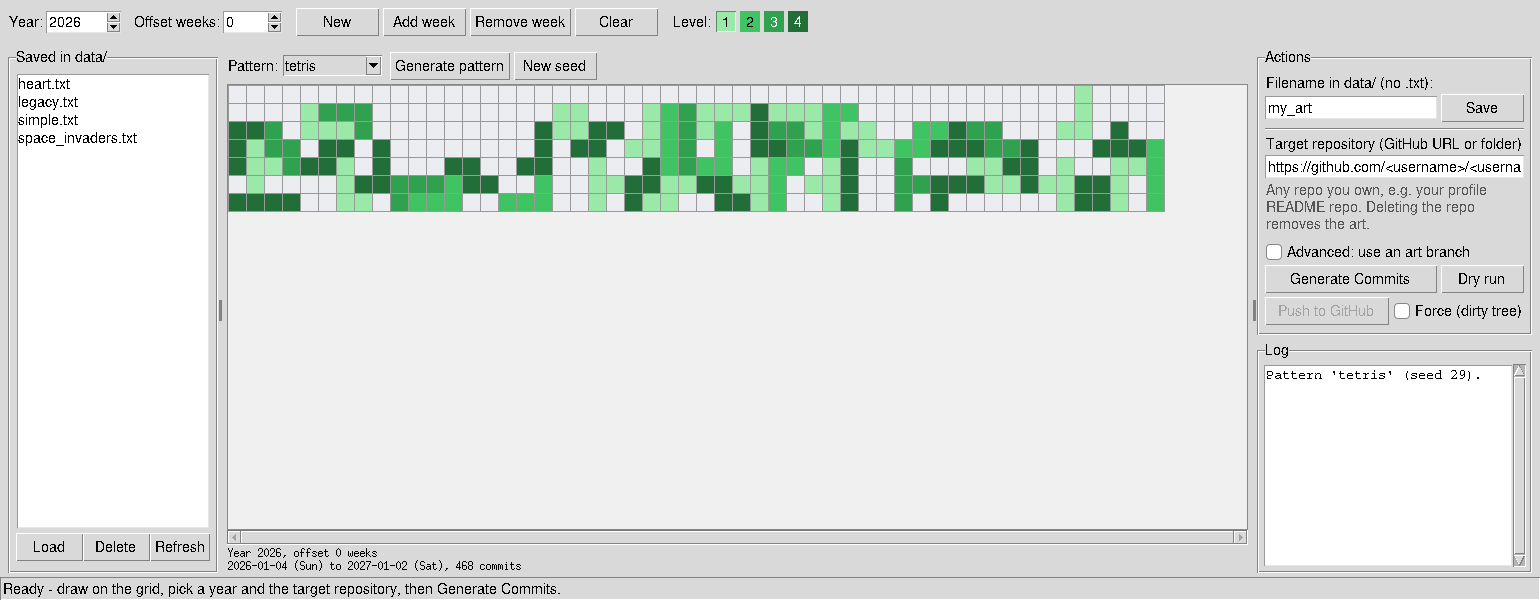
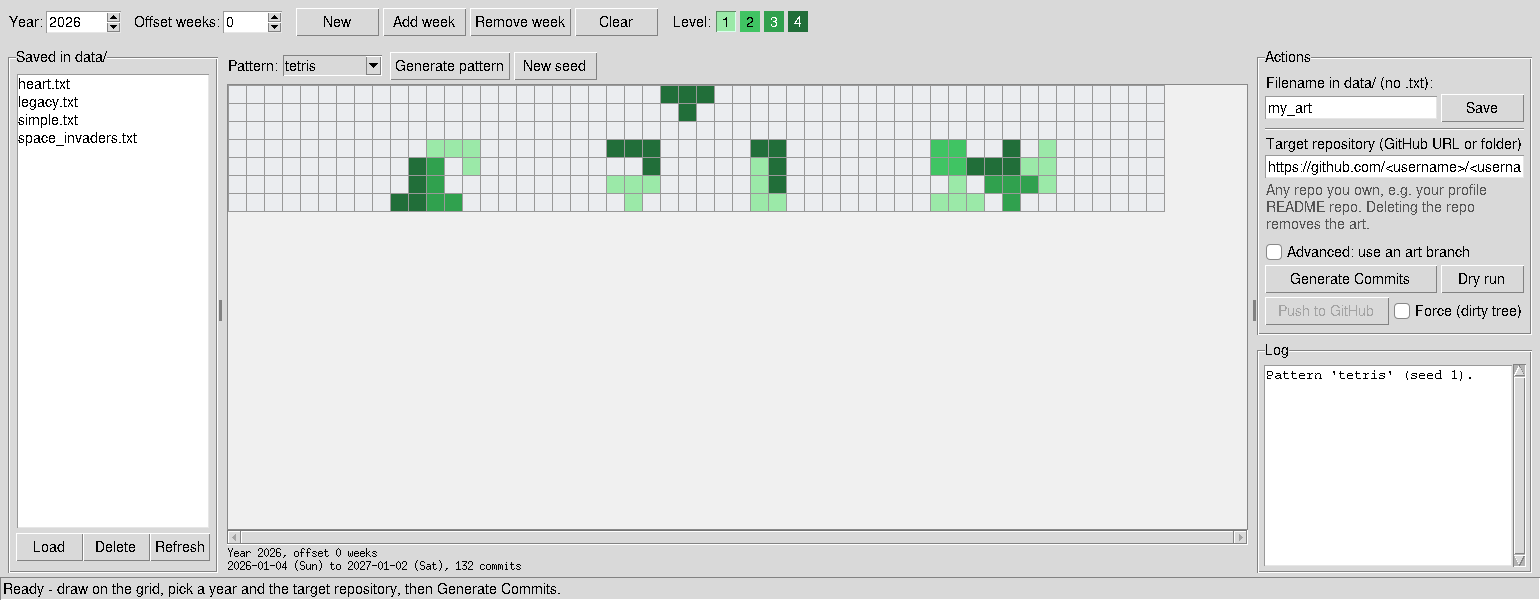
Thin the Tetris pattern into sparse, readable piles
Default density (PATTERN_TETRIS_DENSITY) fills about a third of the
columns, in short clusters 1-4 rows high with wide gaps between them,
so each tetromino stays easy to recognise. A higher density packs more
columns. The README screenshot uses seed 1.

Changed region(s): [[0.1247, 0.12, 0.7792, 0.36]]

diff --git a/src/github_pixel_artworks/patterns.py b/src/github_pixel_artworks/patterns.py
@@ -22,8 +22,12 @@ from .config import (
     PATTERN_OVERFLOWS,
     PATTERN_RANDOM,
     PATTERN_TETRIS,
+    PATTERN_TETRIS_CLUSTER_MAX,
+    PATTERN_TETRIS_CLUSTER_MIN,
+    PATTERN_TETRIS_DENSITY,
     PATTERN_TETRIS_MAX_HEIGHT,
     PATTERN_TETRIS_MIN_HEIGHT,
+    PATTERN_TETRIS_TYPICAL_HEIGHT,
     PATTERN_TEXT,
     PATTERN_TEXT_ALIGN_CENTER,
     PATTERN_TEXT_ALIGN_LEFT,
@@ -44,7 +48,7 @@ def generate(
     seed: int | None = None,
     text: str = "",
     align: str = PATTERN_TEXT_ALIGN_CENTER,
-    density: float = PATTERN_DEFAULT_DENSITY,
+    density: float | None = None,
     overflow: str = PATTERN_OVERFLOW_ERROR,
 ) -> Grid:
     """Return a ``DAYS_PER_WEEK`` by ``width`` grid for the named pattern.
@@ -53,6 +57,9 @@ def generate(
     pattern; ``align`` is ``center`` or ``left`` within ``width``. If the text
     is wider than ``width`` (or ``MAX_WEEKS`` when width is omitted),
     ``overflow`` is ``error`` or ``truncate`` (whole characters only).
+    ``density`` is the fill chance for random and mirror (default
+    ``PATTERN_DEFAULT_DENSITY``) and, for tetris, the share of columns in
+    a stack cluster (default ``PATTERN_TETRIS_DENSITY``, which is sparse).
 
     Raises:
         ValueError: for an unknown name, a bad width, density, align or
@@ -61,6 +68,8 @@ def generate(
     key = name.strip().lower()
     if key not in GENERATORS:
         raise ValueError(f"Unknown pattern {name!r}. Choose one of: {', '.join(PATTERN_NAMES)}.")
+    if density is None:
+        density = PATTERN_TETRIS_DENSITY if key == PATTERN_TETRIS else PATTERN_DEFAULT_DENSITY
     if not 0 <= density <= 1:
         raise ValueError(f"density must be between 0 and 1 (got {density}).")
     if overflow not in PATTERN_OVERFLOWS:
@@ -142,18 +151,19 @@ def _wave(*, width: int | None, rng: random.Random, **_extra: object) -> Grid:
     return grid
 
 
-def _tetris(*, width: int | None, rng: random.Random, **_extra: object) -> Grid:
-    """Stack tetrominoes into a mid-game board with a ragged skyline.
+def _tetris(*, width: int | None, rng: random.Random, density: float, **_extra: object) -> Grid:
+    """Stack a few tetrominoes into sparse piles with gaps between them.
 
     Pieces fall toward Saturday (the last row). Each piece is one shade,
-    chosen so it differs from any orthogonally adjacent piece. The stack
-    stays between ``PATTERN_TETRIS_MIN_HEIGHT`` and
-    ``PATTERN_TETRIS_MAX_HEIGHT`` rows so the top is uneven, not a full
-    board. A falling piece is added above the stack when there is room.
+    chosen so it differs from any orthogonally adjacent piece. ``density``
+    is the share of columns that belong to a pile; the default is sparse,
+    with stacks mostly ``PATTERN_TETRIS_MIN_HEIGHT`` to
+    ``PATTERN_TETRIS_TYPICAL_HEIGHT`` rows tall. A falling piece is added
+    above the board when there is room.
     """
     columns = _require_width(width if width is not None else PATTERN_DEFAULT_WIDTH)
     grid = _blank(columns)
-    targets = _skyline(columns, rng)
+    targets = _skyline(columns, rng, density)
     for _ in range(columns * DAYS_PER_WEEK):  # more than enough; we stop when nothing fits
         if not _drop_piece(grid, rng, max_heights=targets):
             break
@@ -161,21 +171,75 @@ def _tetris(*, width: int | None, rng: random.Random, **_extra: object) -> Grid:
     return grid
 
 
-def _skyline(columns: int, rng: random.Random) -> list[int]:
-    """Target stack height for each column, ragged between the allowed bounds."""
-    low, high = PATTERN_TETRIS_MIN_HEIGHT, PATTERN_TETRIS_MAX_HEIGHT
-    height = rng.randint(low, high)
-    targets: list[int] = []
-    for _ in range(columns):
-        height = max(low, min(high, height + rng.choice((-2, -1, -1, 0, 0, 0, 1, 1, 2))))
-        targets.append(height)
-    if columns >= 3 and max(targets) - min(targets) < 2:
-        index = rng.randrange(columns)
-        if targets[index] <= (low + high) // 2:
-            targets[index] = min(high, targets[index] + 2)
-        else:
-            targets[index] = max(low, targets[index] - 2)
+def _skyline(columns: int, rng: random.Random, density: float) -> list[int]:
+    """Target heights: short clusters separated by empty stretches."""
+    targets = [0] * columns
+    if density <= 0:
+        return targets
+    occupied = max(1, min(columns, round(columns * density)))
+    cluster_count = _cluster_count(occupied)
+    clusters = _split_total(occupied, cluster_count, rng, min_size=1)
+    gaps = _split_total(columns - occupied, cluster_count + 1, rng, min_size=0)
+    column = 0
+    for index, size in enumerate(clusters):
+        column += gaps[index]
+        targets[column : column + size] = _cluster_heights(size, rng)
+        column += size
+    _ensure_height_variation(targets, rng)
     return targets
+
+
+def _cluster_count(occupied: int) -> int:
+    typical = (PATTERN_TETRIS_CLUSTER_MIN + PATTERN_TETRIS_CLUSTER_MAX) // 2
+    return max(1, min(occupied, (occupied + typical - 1) // typical))
+
+
+def _split_total(total: int, parts: int, rng: random.Random, *, min_size: int) -> list[int]:
+    """Split ``total`` into ``parts`` integers, each at least ``min_size`` when possible."""
+    if parts <= 0:
+        return []
+    if total <= 0:
+        return [0] * parts
+    floor = min(min_size, total // parts)
+    sizes = [floor] * parts
+    for _ in range(total - floor * parts):
+        sizes[rng.randrange(parts)] += 1
+    return sizes
+
+
+def _cluster_heights(size: int, rng: random.Random) -> list[int]:
+    low, typical, high = (
+        PATTERN_TETRIS_MIN_HEIGHT,
+        PATTERN_TETRIS_TYPICAL_HEIGHT,
+        PATTERN_TETRIS_MAX_HEIGHT,
+    )
+    height = rng.randint(low, typical)
+    heights: list[int] = []
+    for _ in range(size):
+        height += rng.choice((-2, -1, -1, 0, 0, 0, 1, 1, 2))
+        if height < low:
+            height = low
+        elif height > typical:
+            height = high if high > typical and rng.random() < 0.25 else typical
+        heights.append(height)
+    if size >= 3:
+        _ensure_height_variation(heights, rng)
+    return heights
+
+
+def _ensure_height_variation(heights: list[int], rng: random.Random) -> None:
+    """Nudge a filled column so the skyline is not flat, when there is room."""
+    filled = [index for index, height in enumerate(heights) if height]
+    if len(filled) < 2:
+        return
+    values = [heights[index] for index in filled]
+    if max(values) - min(values) >= 2:
+        return
+    index = filled[rng.randrange(len(filled))]
+    if heights[index] <= PATTERN_TETRIS_TYPICAL_HEIGHT - 1:
+        heights[index] = min(PATTERN_TETRIS_MAX_HEIGHT, heights[index] + 2)
+    else:
+        heights[index] = max(PATTERN_TETRIS_MIN_HEIGHT, heights[index] - 2)
 
 
 def _drop_piece(

diff --git a/tests/test_patterns.py b/tests/test_patterns.py
@@ -13,6 +13,7 @@ from github_pixel_artworks.config import (
     PATTERN_OVERFLOW_TRUNCATE,
     PATTERN_RANDOM,
     PATTERN_TETRIS,
+    PATTERN_TETRIS_DENSITY,
     PATTERN_TETRIS_MAX_HEIGHT,
     PATTERN_TETRIS_MIN_HEIGHT,
     PATTERN_TEXT,
@@ -137,8 +138,28 @@ class TestTetris:
             heights = [height for height in _grounded_heights(grid) if height]
             assert heights
             assert max(heights) - min(heights) >= 2
-            assert min(heights) >= 1
+            assert min(heights) >= PATTERN_TETRIS_MIN_HEIGHT
             assert max(heights) <= PATTERN_TETRIS_MAX_HEIGHT
+
+    def test_the_default_board_is_sparse(self) -> None:
+        for width in (20, 52):
+            for seed in (1, 11, 29, 42, 99):
+                grid = generate(PATTERN_TETRIS, width=width, seed=seed)
+                pieces = len(_same_shade_groups(grid))
+                filled = pieces * 4
+                cells = DAYS_PER_WEEK * width
+                assert 0 < filled / cells <= 0.28
+                # Roughly a piece every three or four weeks, plus a falling one.
+                assert 1 <= pieces <= max(6, width // 2)
+                if width >= 20:
+                    assert _longest_empty_run(_grounded_heights(grid)) >= 2
+
+    def test_a_higher_density_places_more_pieces(self) -> None:
+        default = generate(PATTERN_TETRIS, width=52, seed=7)
+        sparse = generate(PATTERN_TETRIS, width=52, seed=7, density=PATTERN_TETRIS_DENSITY)
+        dense = generate(PATTERN_TETRIS, width=52, seed=7, density=1.0)
+        assert default == sparse
+        assert len(_same_shade_groups(dense)) > len(_same_shade_groups(sparse))
 
 
 class TestText:
@@ -265,3 +286,14 @@ def _floating_cells(grid: list[list[int]]) -> set[tuple[int, int]]:
             continue
         floating.update(cells)
     return floating
+
+
+def _longest_empty_run(heights: list[int]) -> int:
+    longest = current = 0
+    for height in heights:
+        if height == 0:
+            current += 1
+            longest = max(longest, current)
+        else:
+            current = 0
+    return longest

diff --git a/src/github_pixel_artworks/config.py b/src/github_pixel_artworks/config.py
@@ -150,9 +150,15 @@ PATTERN_DEFAULT_DENSITY = 0.45
 """Share of cells filled by the random and mirror patterns."""
 PATTERN_WAVE_PERIOD = 13
 """Week period of the sine wave pattern."""
-PATTERN_TETRIS_MIN_HEIGHT = 2
-PATTERN_TETRIS_MAX_HEIGHT = 6
-"""Grounded stack height, in rows from Saturday, for a mid-game Tetris skyline."""
+PATTERN_TETRIS_MIN_HEIGHT = 1
+PATTERN_TETRIS_TYPICAL_HEIGHT = 4
+PATTERN_TETRIS_MAX_HEIGHT = 5
+"""Grounded stack height, in rows from Saturday: mostly 1-4, occasionally one taller."""
+PATTERN_TETRIS_DENSITY = 0.35
+"""Default Tetris density: the share of columns that belong to a stack cluster (sparse)."""
+PATTERN_TETRIS_CLUSTER_MIN = 3
+PATTERN_TETRIS_CLUSTER_MAX = 7
+"""Width in columns of one pile of pieces; gaps between piles come from density."""
 PATTERN_TEXT_ALIGN_CENTER = "center"
 PATTERN_TEXT_ALIGN_LEFT = "left"
 PATTERN_TEXT_ALIGNS = (PATTERN_TEXT_ALIGN_CENTER, PATTERN_TEXT_ALIGN_LEFT)

diff --git a/scripts/capture_gui_screenshots.py b/scripts/capture_gui_screenshots.py
@@ -163,7 +163,7 @@ def capture_readme_shots() -> list[Path]:
 
     root, app = _new_app()
     try:
-        _generate_pattern(app, "tetris", width=52, seed=29)
+        _generate_pattern(app, "tetris", width=52, seed=1)
         grab(root, PATTERN_TETRIS_SHOT)
     finally:
         root.destroy()
@@ -174,7 +174,7 @@ def capture_pattern_previews(out_dir: Path) -> list[Path]:
     """Capture Tetris, text and mirror patterns as they appear in the editor."""
     out_dir.mkdir(parents=True, exist_ok=True)
     shots = [
-        (out_dir / "pattern_tetris.png", "tetris", 52, 29, ""),
+        (out_dir / "pattern_tetris.png", "tetris", 52, 1, ""),
         (out_dir / "pattern_text.png", "text", 10, 1, "SIMONE"),
         (out_dir / "pattern_mirror.png", "mirror", 36, 7, ""),
     ]

diff --git a/COVERAGE.md b/COVERAGE.md
@@ -4,11 +4,11 @@
 | src/github\_pixel\_artworks/art\_repo.py    |      123 |        1 |     99% |
 | src/github\_pixel\_artworks/artwork.py      |       58 |        0 |    100% |
 | src/github\_pixel\_artworks/cli.py          |      139 |        6 |     96% |
-| src/github\_pixel\_artworks/config.py       |      152 |        0 |    100% |
+| src/github\_pixel\_artworks/config.py       |      158 |        0 |    100% |
 | src/github\_pixel\_artworks/dates.py        |       15 |        0 |    100% |
 | src/github\_pixel\_artworks/github.py       |       95 |        0 |    100% |
 | src/github\_pixel\_artworks/gui.py          |      419 |       42 |     90% |
 | src/github\_pixel\_artworks/identity.py     |       34 |        2 |     94% |
 | src/github\_pixel\_artworks/painter.py      |      216 |        8 |     96% |
-| src/github\_pixel\_artworks/patterns.py     |      245 |       14 |     94% |
-| **TOTAL**                                   | **1507** |   **75** | **95%** |
+| src/github\_pixel\_artworks/patterns.py     |      287 |       16 |     94% |
+| **TOTAL**                                   | **1555** |   **77** | **95%** |

diff --git a/README.md b/README.md
@@ -144,7 +144,7 @@ The **Pattern** bar above the grid can fill it with a generated pattern (random,
 Preview a seeded Tetris board without committing:
 
 ```bash
-uv run github-pixel-artworks --pattern tetris --seed 29 --year 2026 --dry-run
+uv run github-pixel-artworks --pattern tetris --seed 1 --year 2026 --dry-run
 ```
 
 Draw text, such as a name, into your profile README repository:
